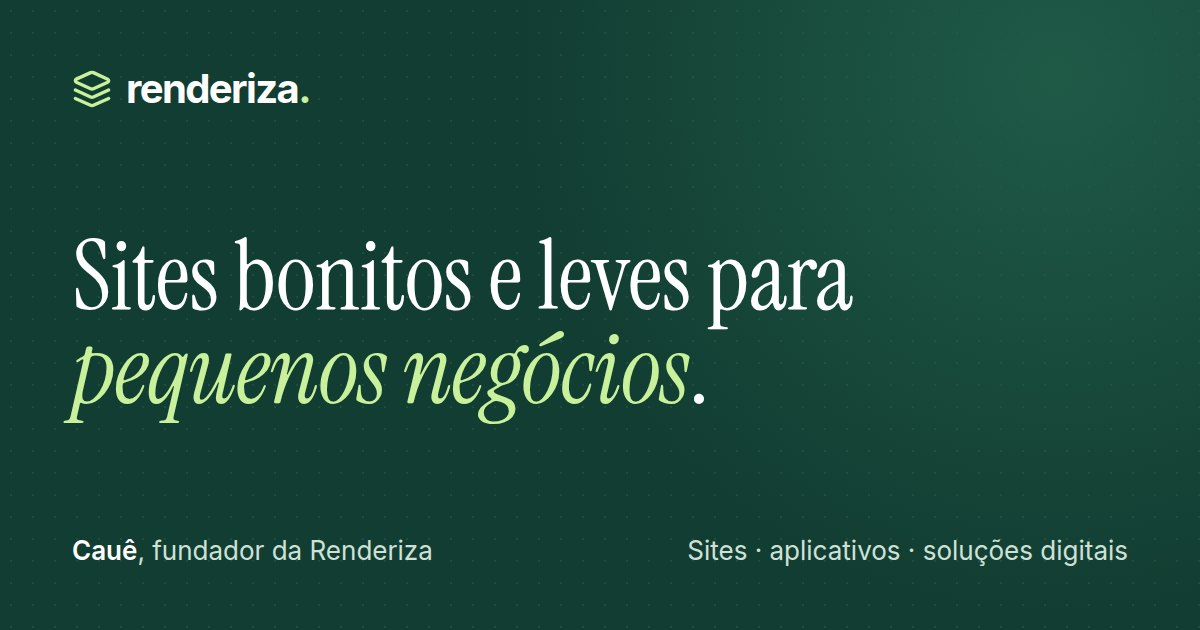
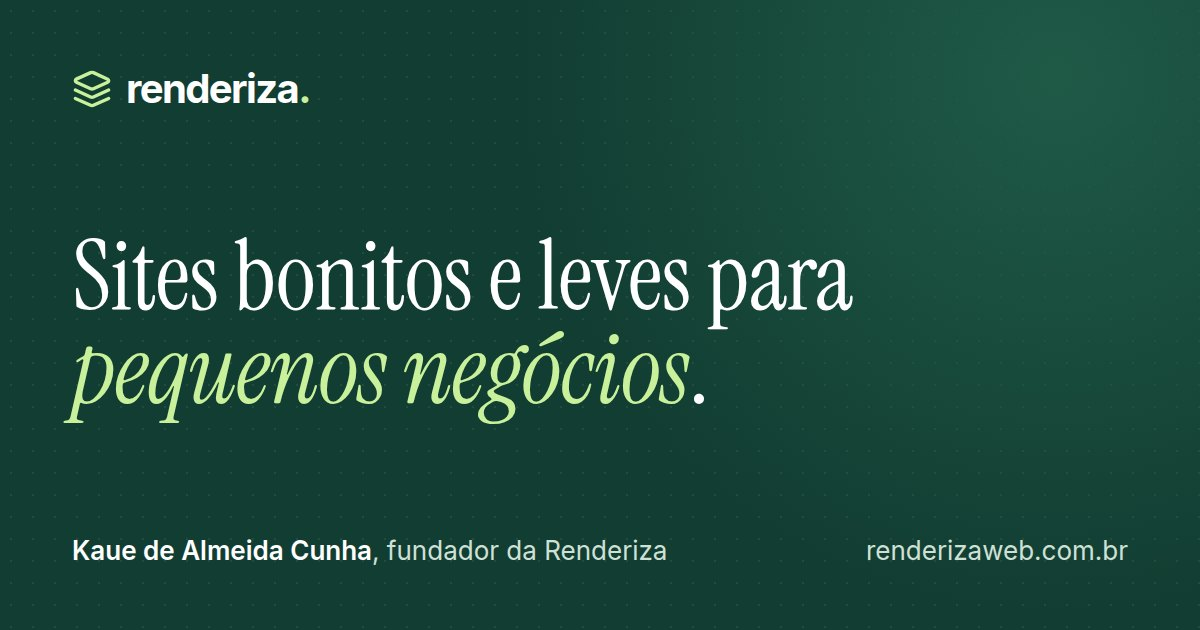
Site público: contatos reais, nome completo e domínio renderizaweb.com.br
- WhatsApp da Renderiza (11) 98869-7165 nos botões e visível no convite final.
- LinkedIn do Kaue (sem parâmetros de rastreio) no Sobre, no convite e no rodapé.
- Nome: Kaue, com o nome completo (Kaue de Almeida Cunha) no Sobre, rodapé,
  descrição e imagem de compartilhamento.
- Endereço oficial https://www.renderizaweb.com.br (canônico e prévia).
- Nenhuma demo na home até haver aprovação de cliente: o cartão geral de
  demonstrações também saiu; a seção vira "Projetos de clientes".
- Instagram fica de fora (ainda não existe). CONTEXTO: garimpo-brasuca não é
  da Renderiza.

Claude-Session: https://claude.ai/code/session_019VZYdWgp65HPAc83E5mYgF

Changed region(s): [[0.0617, 0.8444, 0.9558, 0.9048]]

diff --git a/site/estilo.css b/site/estilo.css
@@ -141,6 +141,8 @@ h3{font-size:1.125rem;line-height:1.35;font-weight:650;letter-spacing:-.01em;col
 .sobre-foto img{width:100%;height:100%;object-fit:cover}
 .sobre-texto p:not(.sobretitulo){margin-top:14px;color:var(--tinta-suave);font-size:1.0625rem;max-width:36em}
 .sobre-texto h2+p{margin-top:18px}
+.sobre-texto p.sobre-nome{margin-top:6px;font-size:.9375rem;font-weight:600;color:var(--verde)}
+.sobre-texto p.sobre-nome+p{margin-top:18px}
 .sobre-texto .botao{margin-top:24px}
 
 /* perguntas */
@@ -159,6 +161,8 @@ h3{font-size:1.125rem;line-height:1.35;font-weight:650;letter-spacing:-.01em;col
 .acoes-convite{align-items:stretch;margin-top:30px}
 .convite :focus-visible,.rodape :focus-visible{outline-color:var(--lima)}
 .convite-pendente{font-size:.9375rem}
+.convite .convite-numero{margin-top:22px;font-size:.9375rem}
+.convite-numero a{color:#fff;font-weight:600;white-space:nowrap}
 
 /* rodapé */
 .rodape{background:var(--verde-noite);color:#bcd1c6;padding:44px 0 calc(28px + env(safe-area-inset-bottom));font-size:.9375rem}

diff --git a/CONTEXTO.md b/CONTEXTO.md
@@ -142,11 +142,13 @@ Como foi feita a do lote 2 (ferramentas em `ferramentas/`):
 ## Repositório e site
 
 - **Oficial: `renderizaweb/renderiza`, branch `main`.** Site público, painel e demos no mesmo
-  repositório e no mesmo site da Vercel (`https://renderiza-five.vercel.app`; `renderiza.com` **não** é
-  da Renderiza, está à venda): `/` é o site público (`site/`, dados em `site/config.mjs`), `/painel` é o
+  repositório e no mesmo site da Vercel, no domínio **`https://www.renderizaweb.com.br`** (o
+  `renderizaweb.com.br` redireciona para o www; `renderiza-five.vercel.app` também abre; `renderiza.com`
+  **não** é da Renderiza): `/` é o site público (`site/`, dados em `site/config.mjs`), `/painel` é o
   painel com login em `/login` (só o Kaue), `/demo/<ótica>` é a demo por link. As demos novas são feitas
   e enviadas aqui. A home **não** lista demos; um trabalho só aparece nela com `publicar: true` no
-  `site/config.mjs`, e demo de ótica só com autorização da ótica (fotos de clientes).
+  `site/config.mjs`, e demo de ótica só com aprovação da ótica (fotos de clientes; em 30/09/2026 nenhuma aprovou, então
+  nenhuma demo aparece).
 - **Painel** (`painel/`, detalhes em `painel/README.md`): Ritmo, Pipeline e Conteúdo, com Supabase.
   Situação em 29/09/2026:
   - Supabase ligado: projeto `gxdwluswpczlfgvzxqvg` (`https://gxdwluswpczlfgvzxqvg.supabase.co`),
@@ -165,7 +167,8 @@ Como foi feita a do lote 2 (ferramentas em `ferramentas/`):
     aplicar. Nunca mudar a estrutura do banco sem pedir.
 - Painel antigo (artifact do Claude, só histórico): https://claude.ai/artifact/6zFaGzyeMNADQMBVhpKu5b.
   Prévia com dados fictícios: https://claude.ai/artifact/AMkVgpUfmFf1LkCEN7KunK.
-- As pastas `renderiza-demos/` e `painel-renderiza/` do `kaue7almeida/garimpo-brasuca` foram cópias
-  provisórias e pararam de ser atualizadas.
+- **`kaue7almeida/garimpo-brasuca` é outro projeto, sem relação com a Renderiza: não trabalhar nele.**
+  Só por histórico: as pastas `renderiza-demos/` e `painel-renderiza/` de lá foram cópias provisórias e
+  pararam de ser atualizadas.
 - Os zips de referência (fotos brutas) continuam em `referencias-demos/` do garimpo-brasuca, branch
   `claude/optica-demo-personalizada-ssalu4`: material bruto não entra neste repositório.

diff --git a/site/README.md b/site/README.md
@@ -1,6 +1,6 @@
 # Site público (`/`)
 
-A home da Renderiza: quem é o Cauê, o que faz, como funciona, trabalhos selecionados e contato.
+A home da Renderiza: quem é o Kaue, o que faz, como funciona, trabalhos selecionados e contato.
 É HTML pronto no build, sem JavaScript para mostrar o conteúdo e com o CSS dentro da página.
 
 | Arquivo | Para quê |
@@ -18,12 +18,13 @@ os botões levam ao bloco de contato (nenhum link quebrado).
 - **WhatsApp**: `contato.whatsapp` só com dígitos, com 55 e DDD (ex.: `5511912345678`).
 - **LinkedIn**: `contato.linkedin` com o endereço completo do perfil.
 - **Foto**: coloque a foto real em `estatico/imagens/` e aponte `pessoa.foto` para `/imagens/<arquivo>`.
-  Para reduzir e converter: `node scripts/imagens-do-site.mjs otimizar foto.jpg site/estatico/imagens/caue.webp`.
+  Para reduzir e converter: `node scripts/imagens-do-site.mjs otimizar foto.jpg site/estatico/imagens/kaue.webp`.
 - **Trabalhos**: cada item tem `selo` (`cliente` ou `demonstracao`), `imagem` (print real), `link` e
   `publicar`. O campo `falta` é só uma anotação e não aparece no site.
-- **Demos de óticas**: só com autorização da ótica, porque usam fotos de clientes dela.
-- **Domínio próprio**: troque `endereco` e rode `node scripts/imagens-do-site.mjs` se mudar nome ou frase
-  da imagem de compartilhamento.
+- **Demos de óticas**: só com aprovação da ótica, porque usam fotos de clientes dela. Por enquanto
+  nenhuma aparece (`publicar: false`).
+- **Domínio**: `endereco` é `https://www.renderizaweb.com.br`. Se mudar nome, frase ou domínio, rode
+  `node scripts/imagens-do-site.mjs` para refazer a imagem de compartilhamento.
 
 ## Ver no computador
 

diff --git a/README.md b/README.md
@@ -6,7 +6,7 @@ Um site só, publicado na Vercel:
 
 | Endereço | O que abre | Quem vê |
 |---|---|---|
-| `/` | Site público da Renderiza: quem é o Cauê, o que faz, trabalhos e contato | todo mundo (é o único endereço que o Google pode indexar) |
+| `/` | Site público da Renderiza: quem é o Kaue, o que faz, trabalhos e contato | todo mundo (é o único endereço que o Google pode indexar) |
 | `/login` | Login do painel | só você |
 | `/painel` | Painel da Renderiza (Ritmo, Pipeline, Conteúdo). Sem sessão, manda para `/login` | só você |
 | `/demo/<ótica>` | Demo do site da ótica (ex.: `/demo/otica-catglass`) | quem tiver o link |
